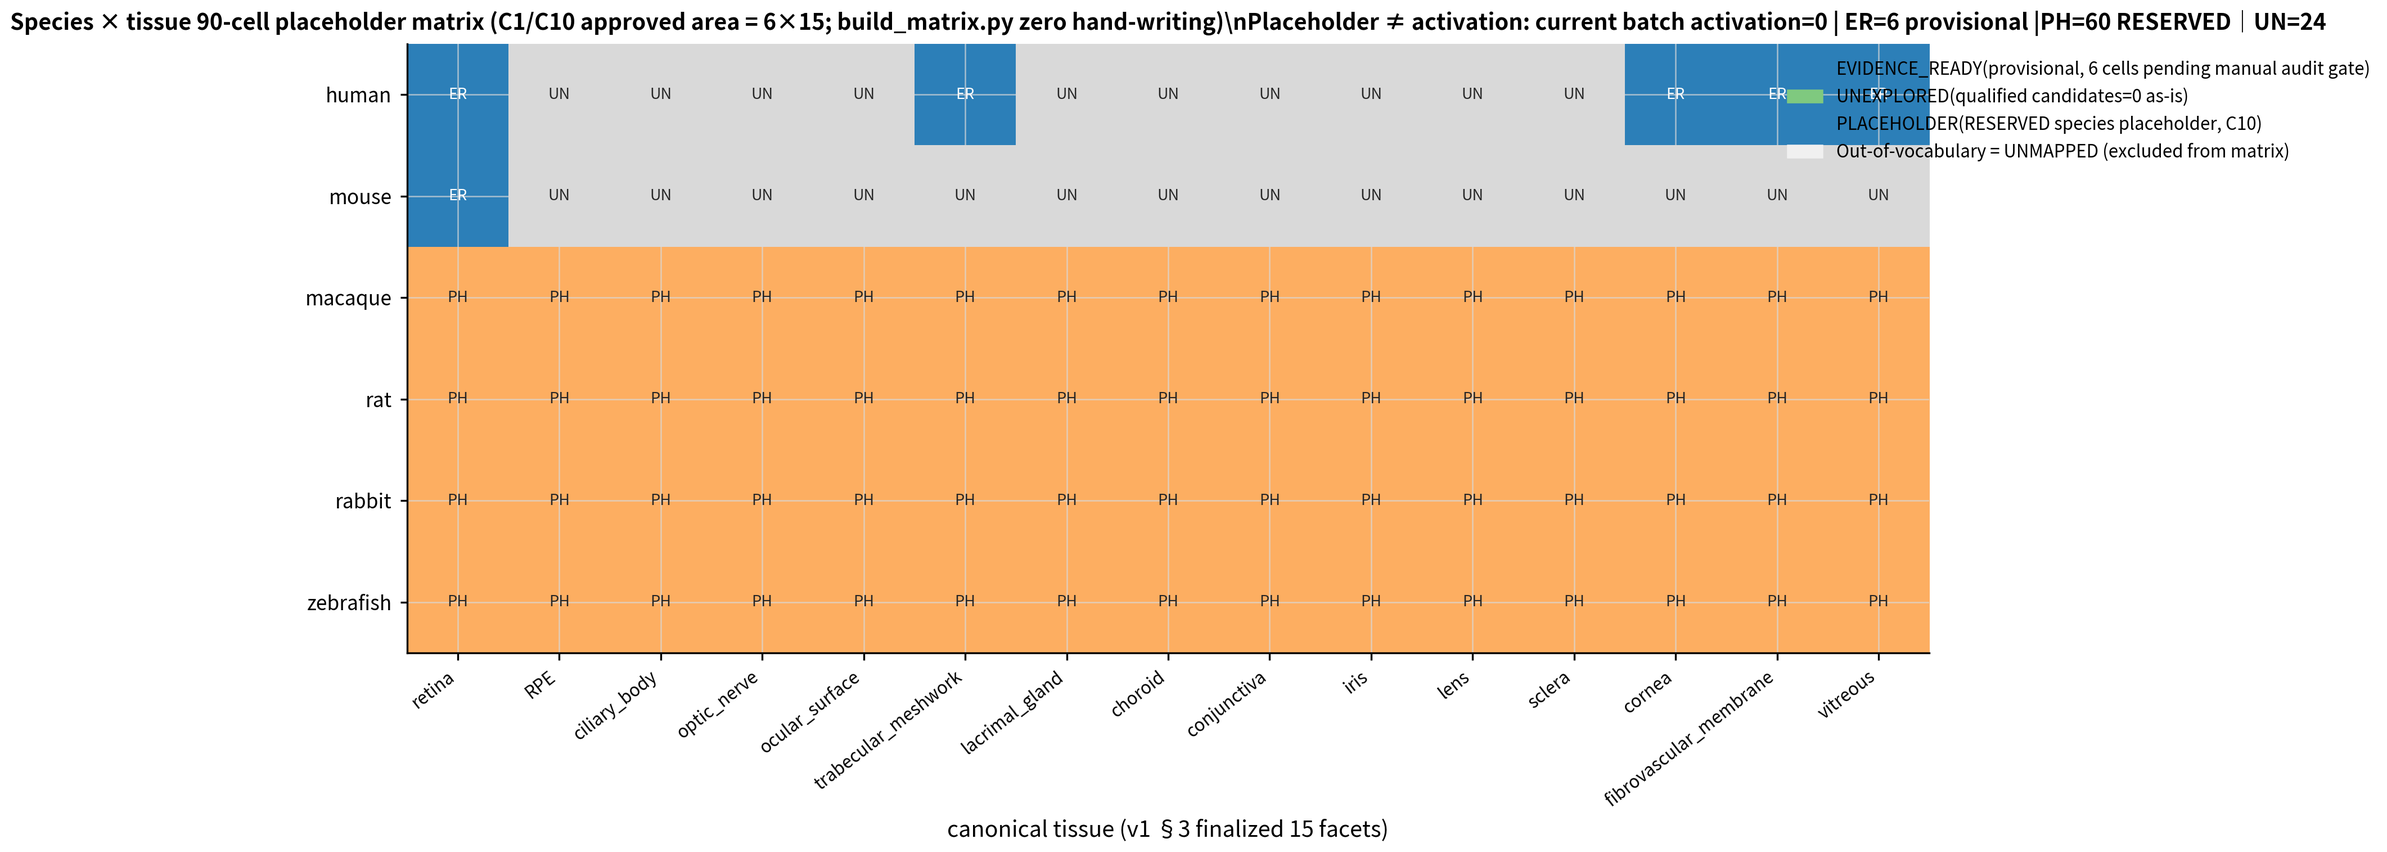
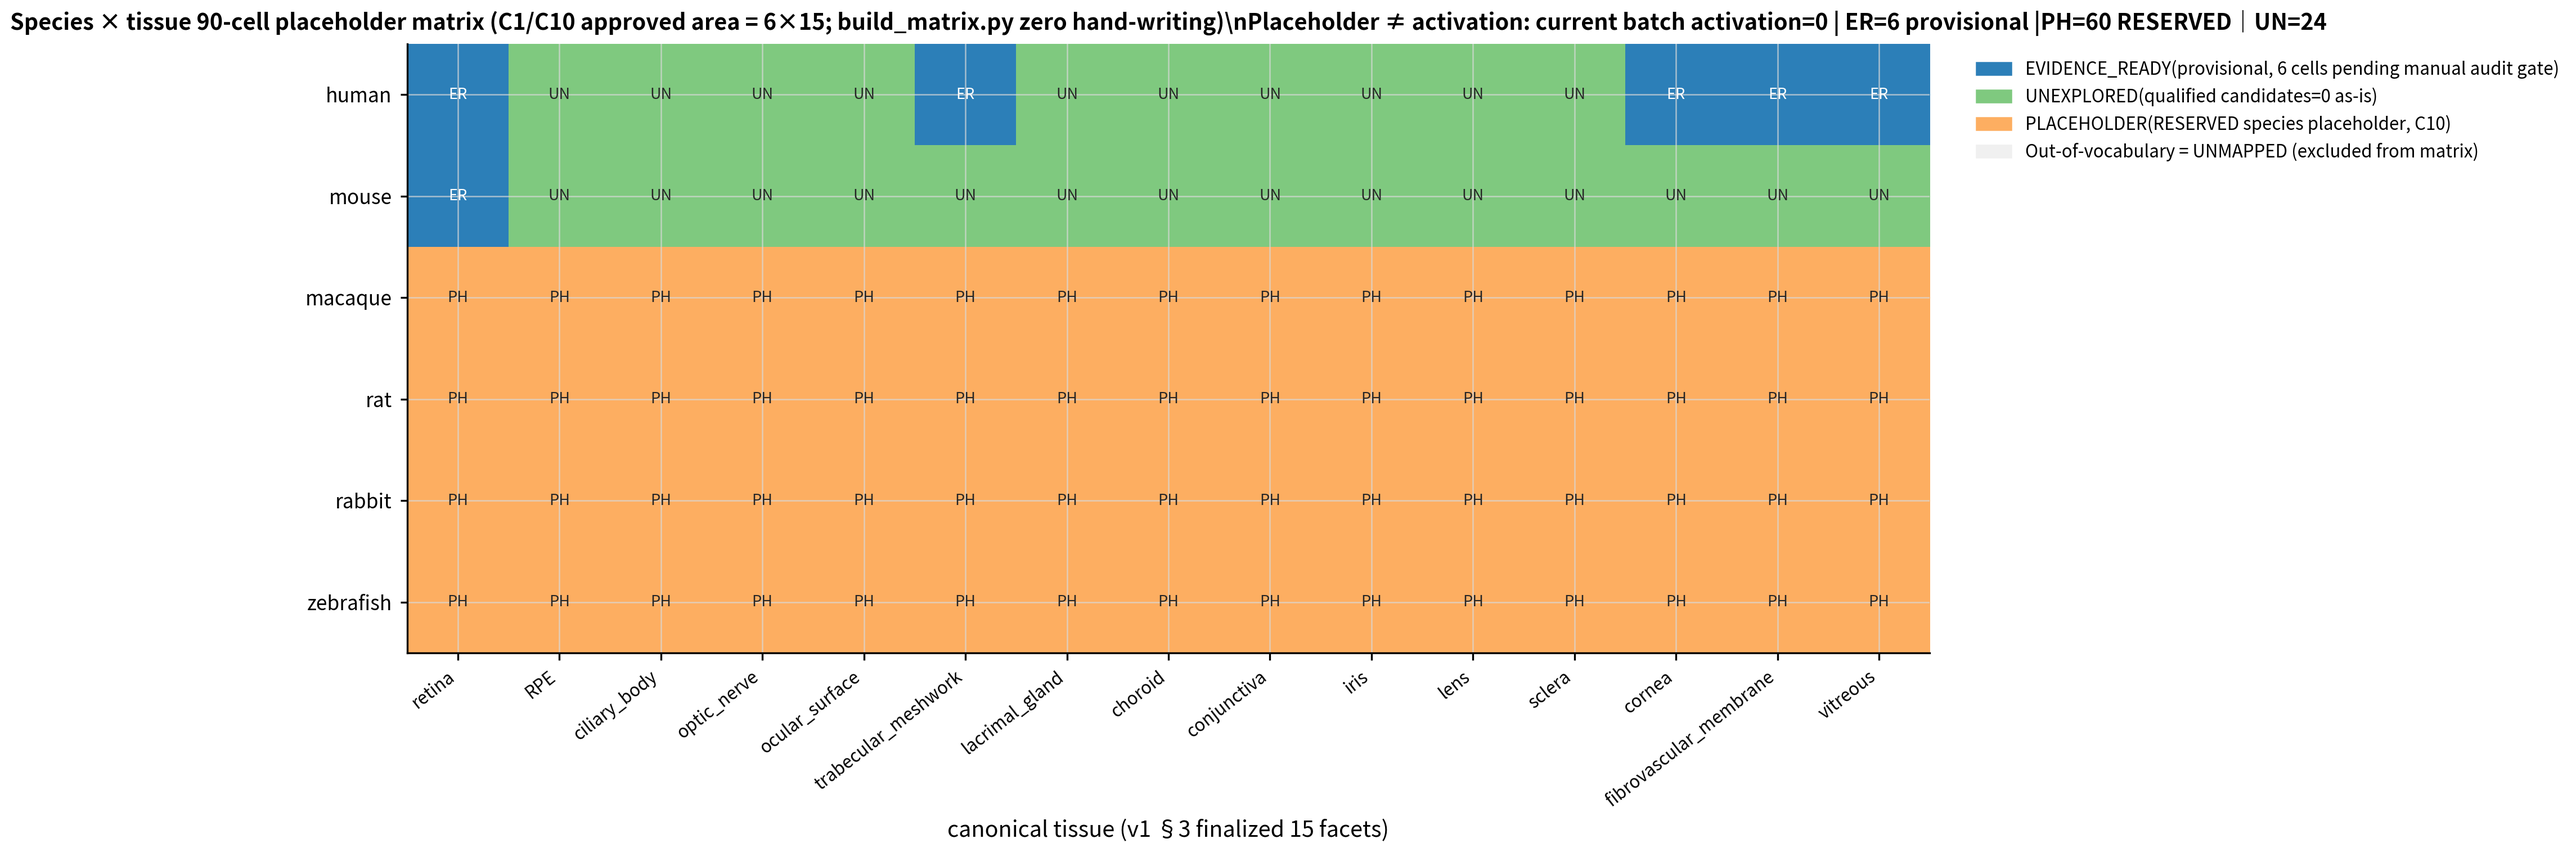
pitfalls/matrix: fix 3 defects in render_matrix.py (card t_26d5c3fa, PC ruling T5b t_b993781d)
D1 palette/CODE index mismatch (L40 vs L32-33): idx0 was gray->UNEXPLORED (must be green)
    => all 24 unexplored cells rendered gray; green unreachable (CER had 0 cells).
    now ListedColormap([green,orange,gray,blue]) so idx==CODE.
D2 legend used continuous cmap(n) lookup (L52): n in [3.5,0.5,1.5,-0.5] -> blue/green/blue/nearwhite
    => legend showed two blue blocks and no orange swatch though orange is 60/90 cells.
    now explicit colors (blue,green,orange,nearwhite), order == label order.
D3 legend overlapped the data area (L55): upper right + bbox_to_anchor(1.30,1.0) after the
    2026-10-03 English translation lengthened labels -> swatch cols x[3178,3240] inside the
    matrix (right boundary 3430). now loc=upper left + bbox_to_anchor(1.02,1.0) (grows rightwards).
L8 docstring aligned with code (no value = near-white #f0f0f0, CER = gray).

Re-render: 4244x1515 ffed263e -> 4579x1515 a48da1a3 (321125 B); byte-identical on rerun.
Pixel ground-truth: blue 6 / green 24 / orange 60 == MATRIX_GRID.json grid_states_seen;
gray and near-white inside the matrix = 0 px; legend swatches blue/green/orange/near-white
at x[3513,3575] vs matrix right boundary x=3430 => zero overlap.
No change to MATRIX_GRID.json, README.md or any other file. Local commit only, no push.

diff --git a/pipeline/pitfalls/matrix/render_matrix.py b/pipeline/pitfalls/matrix/render_matrix.py
@@ -5,8 +5,11 @@
 Rows=6 species (human/mouse ACTIVE + macaque/rat/rabbit/zebrafish RESERVED),
 Columns = 15 canonical tissues (COORDINATE_TAXONOMY_v1.md §3, C1 approved area 6×15=90).
 Data source=matrix/MATRIX_GRID.json (output of build_matrix.py, zero manual entry).
-State colors: EVIDENCE_READY(provisional)=blue / UNEXPLORED=green / PLACEHOLDER(RESERVED species)=orange /
-No value = gray. This batch activation count = 0 — placeholder ≠ activation (Execution sequence 5 states this directly in figure captions).
+State colors (palette indexed by CODE below, idx must stay aligned with CODE):
+EVIDENCE_READY(provisional)=blue #2c7fb8 / UNEXPLORED=green #7fc97f /
+PLACEHOLDER(RESERVED species)=orange #fdae61 / CANDIDATE_EVIDENCE_READY=gray #d9d9d9 (0 cells in this batch) /
+out-of-vocabulary (no value) = near-white #f0f0f0.
+This batch activation count = 0 — placeholder ≠ activation (Execution sequence 5 states this directly in figure captions).
 
 Usage: python render_matrix.py [--out DIR]
 """
@@ -37,8 +40,8 @@ for c in GRID["cells"]:
 
 plt.style.use(str(STYLE))
 fig, ax = plt.subplots(figsize=(13.5, 5.2), dpi=300)
-cmap = colors.ListedColormap(["#d9d9d9", "#fdae61", "#7fc97f", "#2c7fb8"], N=4)
-cmap.set_under("#f0f0f0")
+cmap = colors.ListedColormap(["#7fc97f", "#fdae61", "#d9d9d9", "#2c7fb8"], N=4)  # idx==CODE: 0=UN green, 1=PH orange, 2=CER gray, 3=ER blue
+cmap.set_under("#f0f0f0")            # no value (below vocabulary) = near-white (aligns with docstring)
 norm = colors.BoundaryNorm([-0.5, 0.5, 1.5, 2.5, 3.5], cmap.N)
 ax.imshow(M, cmap=cmap, norm=norm, aspect="equal")
 ax.set_xticks(range(len(CANON))); ax.set_xticklabels(CANON, rotation=38, ha="right", fontsize=7.5)
@@ -49,10 +52,11 @@ for i in range(len(SPECIES)):
         lab = {3: "ER", 2: "CER", 1: "PH", 0: "UN"}.get(int(v) if v >= 0 else -1, "×")
         ax.text(j, i, lab, ha="center", va="center", fontsize=6.5,
                 color="white" if v == 3.0 else "#262626")
-handles = [plt.Rectangle((0, 0), 1, 1, color=cmap(n)) for n in [3.5, 0.5, 1.5, -0.5]]
+handles = [plt.Rectangle((0, 0), 1, 1, color=c)
+           for c in ("#2c7fb8", "#7fc97f", "#fdae61", "#f0f0f0")]  # explicit colors, order == label order below (no cmap(n) float lookup)
 ax.legend(handles, ["EVIDENCE_READY(provisional, 6 cells pending manual audit gate)", "UNEXPLORED(qualified candidates=0 as-is)",
                     "PLACEHOLDER(RESERVED species placeholder, C10)", "Out-of-vocabulary = UNMAPPED (excluded from matrix)"],
-          loc="upper right", bbox_to_anchor=(1.30, 1.0), fontsize=7.5, frameon=False)
+          loc="upper left", bbox_to_anchor=(1.02, 1.0), fontsize=7.5, frameon=False)  # grow rightwards: left edge stays outside the data area
 tally = GRID["grid_states_seen"]
 ax.set_title("Species × tissue 90-cell placeholder matrix (C1/C10 approved area = 6×15; build_matrix.py zero hand-writing)\\n"
              f"Placeholder ≠ activation: current batch activation=0 | ER={tally.get('EVIDENCE_READY',0)} provisional |"
